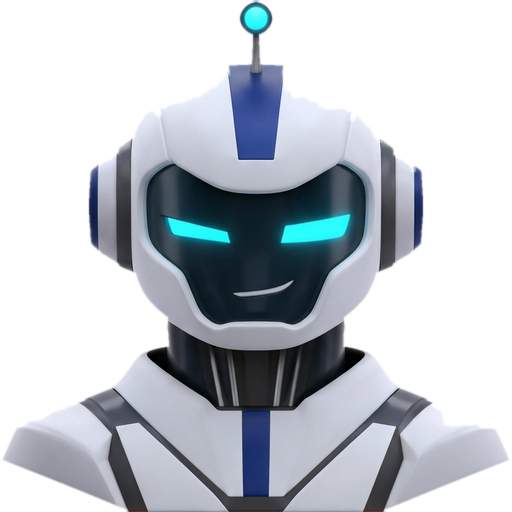
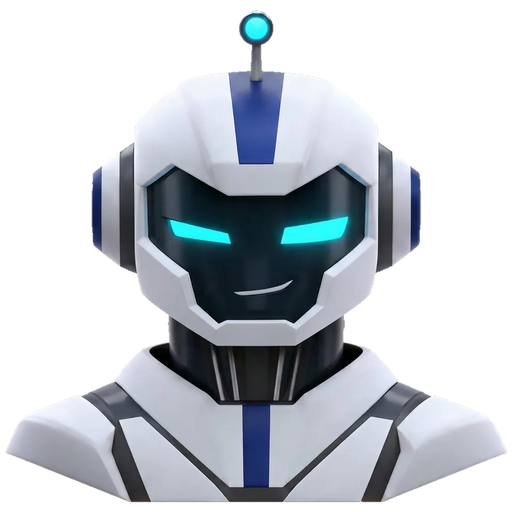
feat(brand): mascot v3 — regenerated on pure black bg for clean cut
- The white-on-white background made flood-fill edges fringe on top
  of the head. Regenerated the same robot on pure black (#000) so the
  silhouette separates crisply; removed bg via border flood-fill +
  erode/feather. Head edge is now perfectly clean.
- Face crop + favicon regenerated; eyelid boxes re-measured on the
  new image and verified by overlay.

diff --git a/frontend/components/brand-mascot.tsx b/frontend/components/brand-mascot.tsx
@@ -25,12 +25,12 @@ type Props = {
  */
 const EYES: Record<'face' | 'full', { left: number; top: number; w: number; h: number }[]> = {
   full: [
-    { left: 31.4, top: 42.0, w: 14.8, h: 5.8 },
-    { left: 52.9, top: 41.1, w: 20.6, h: 6.8 },
+    { left: 31.8, top: 42.4, w: 14.5, h: 5.6 },
+    { left: 53.3, top: 41.6, w: 16.0, h: 6.5 },
   ],
   face: [
-    { left: 26.8, top: 63.4, w: 18.5, h: 7.9 },
-    { left: 53.7, top: 62.2, w: 25.8, h: 9.2 },
+    { left: 26.2, top: 64.0, w: 19.1, h: 7.6 },
+    { left: 54.5, top: 62.8, w: 21.0, h: 8.9 },
   ],
 };
 
